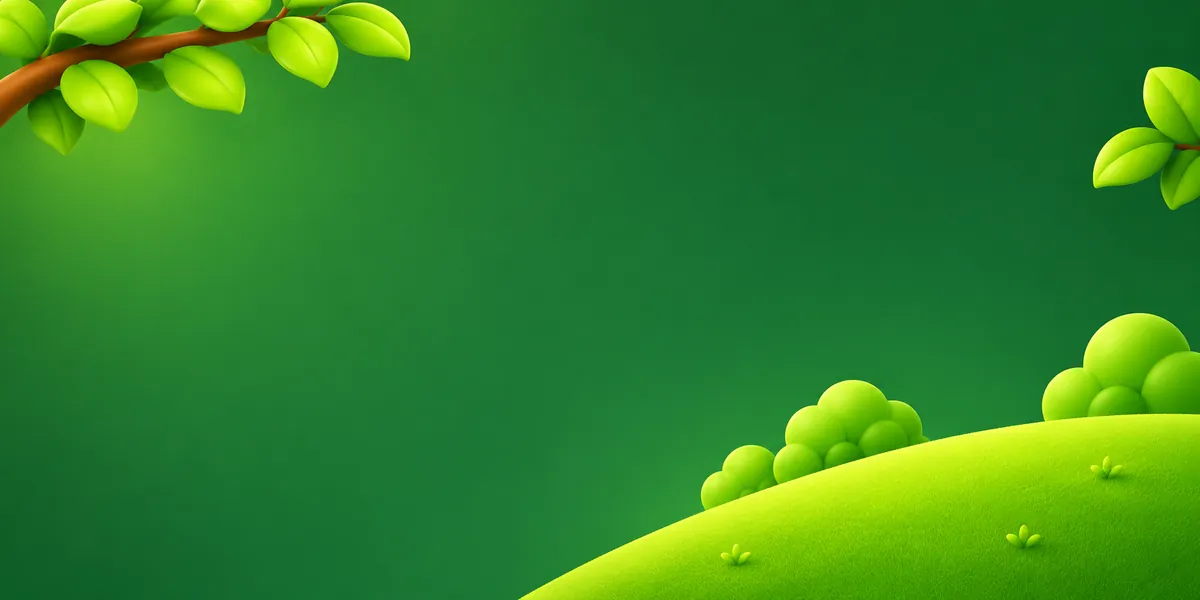
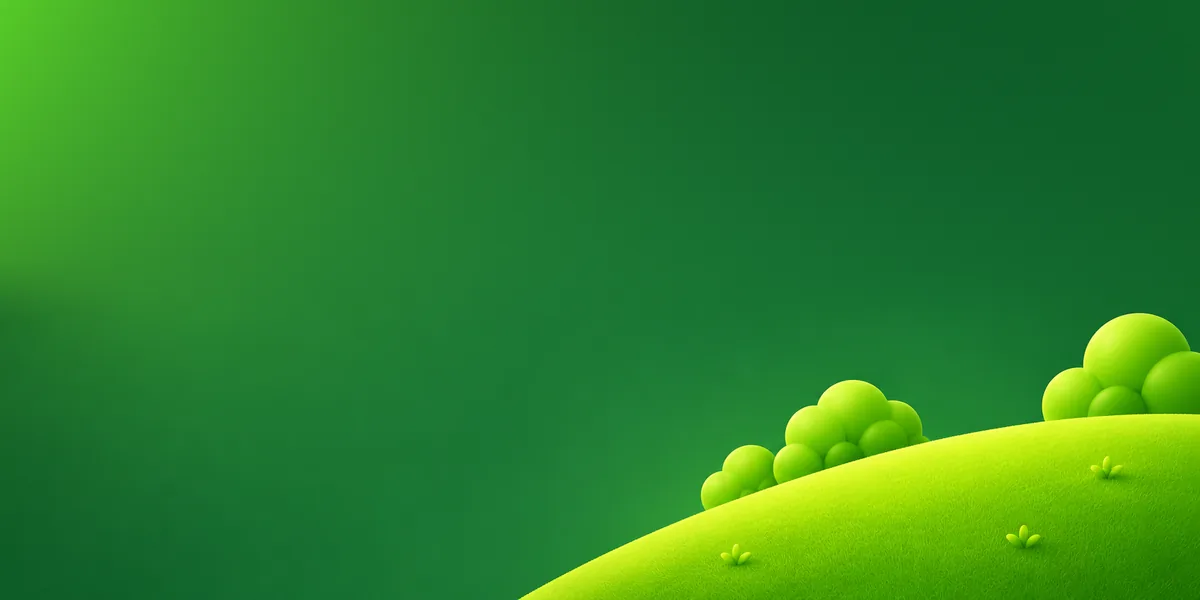
Bosh sahifa: fon kartani to'liq qoplaydi, barglarsiz

Changed region(s): [[0.0, 0.0, 0.3392, 0.45], [0.8942, 0.09, 1.0, 0.36]]

diff --git a/src/app/(tabs)/home.tsx b/src/app/(tabs)/home.tsx
@@ -222,7 +222,7 @@ export default function Home() {
 function Hero({ children, mascot = 142 }: { children: ReactNode; mascot?: number }) {
   return (
     <View style={{ backgroundColor: colors.forest, borderRadius: 30, overflow: 'hidden', paddingHorizontal: 18, paddingTop: 22, paddingBottom: 20, gap: 16 }}>
-      <Image source={HERO_BG} resizeMode="cover" {...hidden} style={{ position: 'absolute', left: 0, top: 0, right: 0, bottom: 0, width: '100%', height: '100%' }} />
+      <Image source={HERO_BG} resizeMode="cover" {...hidden} style={{ position: 'absolute', left: 0, top: 0, right: 0, bottom: 0 }} />
       <Image source={BRAIN} {...hidden} style={{ position: 'absolute', right: 0, bottom: 6, height: mascot, width: (mascot * 426) / 440 }} />
       {children}
     </View>
